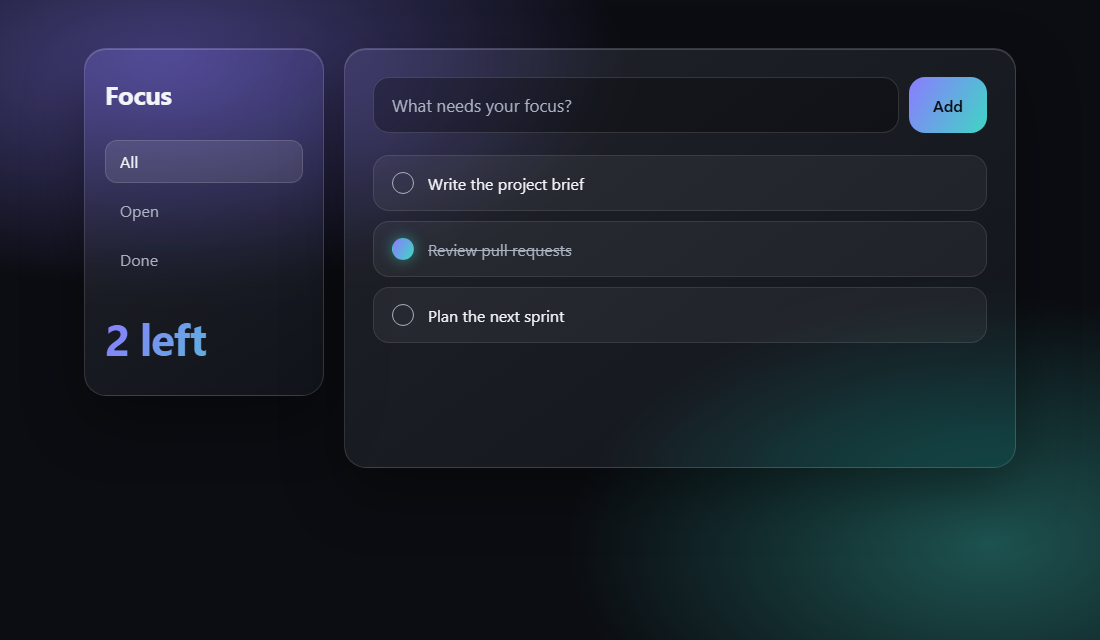
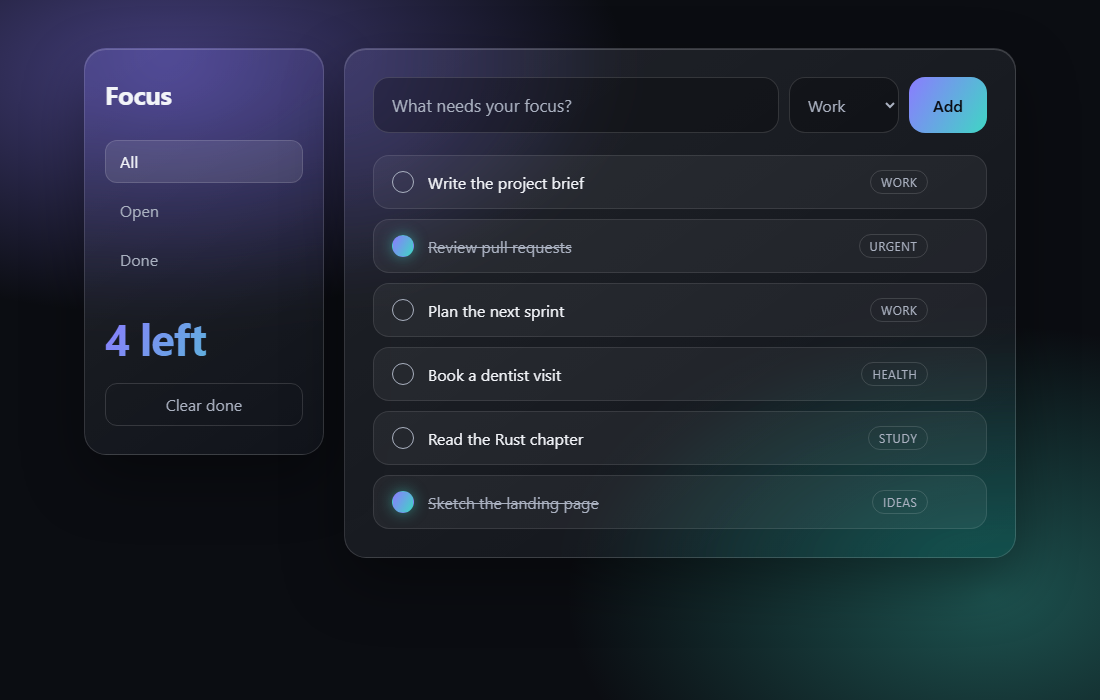
docs: exemplo passa a todo list completa com tags coloridas no antes e glass sobrio no depois

diff --git a/examples/task-board/before/style.css b/examples/task-board/before/style.css
@@ -1,17 +1,33 @@
 * { box-sizing: border-box; }
-body { font-family: Inter, system-ui, sans-serif; min-height: 100vh; margin: 0; padding: 48px 16px; display: flex; flex-direction: column; align-items: center; background: linear-gradient(135deg, #667eea 0%, #764ba2 100%); color: #1f2937; }
-h1 { font-size: 32px; font-weight: 700; margin: 0 0 20px; color: #fff; text-align: center; }
-form, .filters, ul, #count { width: 100%; max-width: 440px; }
-form { display: flex; gap: 8px; padding: 20px 20px 0; background: #fff; border-radius: 16px 16px 0 0; box-shadow: 0 20px 40px rgba(0, 0, 0, 0.15); }
-input { flex: 1; padding: 12px 16px; border: 2px solid #e5e7eb; border-radius: 12px; font: inherit; font-size: 14px; }
-button { padding: 12px 20px; border: 0; border-radius: 12px; background: linear-gradient(135deg, #667eea, #764ba2); color: #fff; font: inherit; font-size: 14px; font-weight: 600; cursor: pointer; }
-.filters { display: flex; gap: 8px; padding: 16px 20px; background: #fff; box-shadow: 0 20px 40px rgba(0, 0, 0, 0.15); }
+html { min-height: 100%; background: linear-gradient(135deg, #667eea 0%, #764ba2 100%); }
+body { max-width: 520px; margin: 32px auto; padding: 28px 24px; background: #fff; border-radius: 20px; box-shadow: 0 20px 40px rgba(0, 0, 0, 0.2); font-family: Inter, system-ui, sans-serif; color: #1f2937; }
+h1 { margin: 0 0 20px; font-size: 32px; text-align: center; background: linear-gradient(135deg, #667eea, #764ba2); -webkit-background-clip: text; background-clip: text; color: transparent; }
+form { display: flex; gap: 8px; margin-bottom: 16px; }
+input, select { padding: 10px 14px; border: 2px solid #e5e7eb; border-radius: 12px; font: inherit; font-size: 14px; }
+input { flex: 1; min-width: 0; }
+button { padding: 10px 18px; border: 0; border-radius: 12px; background: linear-gradient(135deg, #667eea, #764ba2); color: #fff; font: inherit; font-size: 14px; font-weight: 600; cursor: pointer; }
+.filters { display: flex; gap: 8px; margin-bottom: 16px; }
 .filters button { padding: 6px 16px; border-radius: 999px; background: #f3f4f6; color: #6b7280; font-weight: 500; }
 .filters button.active { background: #667eea; color: #fff; }
-ul { list-style: none; margin: 0; padding: 0 20px; background: #fff; box-shadow: 0 20px 40px rgba(0, 0, 0, 0.15); }
-.task { display: flex; align-items: center; gap: 12px; padding: 14px 16px; margin-bottom: 8px; background: #f9fafb; border-radius: 12px; cursor: pointer; }
-.task span { font-size: 15px; }
-.task.done span { text-decoration: line-through; color: #9ca3af; }
+ul { list-style: none; margin: 0; padding: 0; }
+.task { display: flex; align-items: center; gap: 12px; padding: 12px 14px; margin-bottom: 8px; background: #f9fafb; border-left: 4px solid #667eea; border-radius: 12px; cursor: pointer; }
+.text { flex: 1; font-size: 15px; }
+.task.done .text { text-decoration: line-through; color: #9ca3af; }
 .check { width: 22px; height: 22px; padding: 0; border: 2px solid #d1d5db; border-radius: 50%; background: #fff; }
-.task.done .check { border-color: #667eea; background: #667eea; }
-#count { margin: 0; padding: 8px 20px 20px; background: #fff; border-radius: 0 0 16px 16px; box-shadow: 0 20px 40px rgba(0, 0, 0, 0.15); color: #9ca3af; font-size: 13px; text-align: center; }
+.task.done .check { border-color: #10b981; background: #10b981; }
+.tag { padding: 3px 10px; border-radius: 999px; color: #fff; font-size: 12px; font-weight: 600; text-transform: uppercase; }
+.tag-work { background: #3b82f6; }
+.tag-personal { background: #10b981; }
+.tag-urgent { background: #ef4444; }
+.tag-ideas { background: #f59e0b; }
+.tag-health { background: #ec4899; }
+.tag-study { background: #8b5cf6; }
+.task:has(.tag-work) { border-left-color: #3b82f6; }
+.task:has(.tag-personal) { border-left-color: #10b981; }
+.task:has(.tag-urgent) { border-left-color: #ef4444; }
+.task:has(.tag-ideas) { border-left-color: #f59e0b; }
+.task:has(.tag-health) { border-left-color: #ec4899; }
+.task:has(.tag-study) { border-left-color: #8b5cf6; }
+.del { padding: 0 6px; background: none; color: #ef4444; font-size: 20px; line-height: 1; }
+#count { margin: 16px 0 12px; color: #9ca3af; font-size: 13px; text-align: center; }
+#clear { display: block; margin: 0 auto; padding: 8px 18px; background: #fee2e2; color: #ef4444; }

diff --git a/examples/task-board/after/style.css b/examples/task-board/after/style.css
@@ -27,18 +27,28 @@ button { font: inherit; color: inherit; cursor: pointer; }
 .filters button { text-align: left; padding: 10px 14px; border-radius: 12px; border: 1px solid transparent; background: transparent; color: var(--ink-muted); }
 .filters button:hover { background: rgba(255, 255, 255, 0.06); }
 .filters button.active { color: var(--ink); background: rgba(255, 255, 255, 0.1); border-color: var(--edge); }
-#count { margin: 28px 0 0; font-size: 44px; font-weight: 650; letter-spacing: -0.03em; background: linear-gradient(120deg, var(--violet), var(--teal)); -webkit-background-clip: text; background-clip: text; color: transparent; }
+#count { margin: 28px 0 16px; font-size: 44px; font-weight: 650; letter-spacing: -0.03em; background: linear-gradient(120deg, var(--violet), var(--teal)); -webkit-background-clip: text; background-clip: text; color: transparent; }
+#clear { width: 100%; padding: 10px; border-radius: 12px; border: 1px solid var(--edge); background: transparent; color: var(--ink-muted); }
+#clear:hover { background: rgba(255, 255, 255, 0.06); color: var(--ink); }
 form { display: flex; gap: 10px; margin-bottom: 22px; }
-input { flex: 1; padding: 16px 18px; font: inherit; font-size: 17px; color: var(--ink); background: rgba(0, 0, 0, 0.28); border: 1px solid var(--edge); border-radius: 16px; outline: none; }
+input, select { font: inherit; color: var(--ink); background: rgba(0, 0, 0, 0.28); border: 1px solid var(--edge); border-radius: 16px; outline: none; }
+input { flex: 1; min-width: 0; padding: 16px 18px; font-size: 17px; }
+select { padding: 0 14px; color: var(--ink-muted); text-transform: capitalize; }
+select option { background: #151821; color: var(--ink); }
 input::placeholder { color: var(--ink-muted); }
-input:focus-visible { border-color: var(--violet); box-shadow: 0 0 0 3px rgba(139, 124, 255, 0.3); }
+input:focus-visible, select:focus-visible { border-color: var(--violet); box-shadow: 0 0 0 3px rgba(139, 124, 255, 0.3); }
 form button { padding: 0 24px; border-radius: 16px; border: 0; font-weight: 600; color: #0b0d12; background: linear-gradient(120deg, var(--violet), var(--teal)); }
 form button:hover { filter: brightness(1.1); }
 ul { list-style: none; margin: 0; padding: 0; display: grid; gap: 10px; }
-.task { display: flex; align-items: center; gap: 14px; padding: 16px 18px; border-radius: 16px; background: rgba(255, 255, 255, 0.05); border: 1px solid rgba(255, 255, 255, 0.1); cursor: pointer; transition: background 0.15s, transform 0.15s; }
+.task { display: flex; align-items: center; gap: 14px; padding: 14px 18px; border-radius: 16px; background: rgba(255, 255, 255, 0.05); border: 1px solid rgba(255, 255, 255, 0.1); cursor: pointer; transition: background 0.15s, transform 0.15s; }
 .task:hover { background: rgba(255, 255, 255, 0.09); transform: translateY(-1px); }
-.task.done span { text-decoration: line-through; color: var(--ink-muted); }
+.text { flex: 1; }
+.task.done .text { text-decoration: line-through; color: var(--ink-muted); }
 .check { width: 22px; height: 22px; padding: 0; border-radius: 50%; border: 1.5px solid var(--ink-muted); background: transparent; flex: none; }
 .task.done .check { border-color: transparent; background: linear-gradient(120deg, var(--violet), var(--teal)); box-shadow: 0 0 14px rgba(63, 214, 196, 0.5); }
+.tag { padding: 3px 10px; border-radius: 999px; border: 1px solid var(--edge); color: var(--ink-muted); font-size: 12px; letter-spacing: 0.04em; text-transform: uppercase; }
+.del { padding: 0 6px; border: 0; background: none; color: var(--ink-muted); font-size: 20px; line-height: 1; opacity: 0; transition: opacity 0.15s; }
+.task:hover .del, .del:focus-visible { opacity: 1; }
+.del:hover { color: var(--ink); }
 @media (max-width: 720px) { .shell { grid-template-columns: 1fr; } }
-@media (prefers-reduced-motion: reduce) { .task { transition: none; } }
+@media (prefers-reduced-motion: reduce) { .task, .del { transition: none; } }

diff --git a/examples/task-board/after/app.js b/examples/task-board/after/app.js
@@ -1,16 +1,22 @@
+const TAGS = ['work', 'personal', 'urgent', 'ideas', 'health', 'study'];
 const tasks = [
-	{ text: 'Write the project brief', done: false },
-	{ text: 'Review pull requests', done: true },
-	{ text: 'Plan the next sprint', done: false }
+	{ text: 'Write the project brief', tag: 'work', done: false },
+	{ text: 'Review pull requests', tag: 'urgent', done: true },
+	{ text: 'Plan the next sprint', tag: 'work', done: false },
+	{ text: 'Book a dentist visit', tag: 'health', done: false },
+	{ text: 'Read the Rust chapter', tag: 'study', done: false },
+	{ text: 'Sketch the landing page', tag: 'ideas', done: true }
 ];
 let filter = 'all';
 const $ = (selector) => document.querySelector(selector);
 const escape = (text) => text.replace(/[&<>"]/g, (c) => ({ '&': '&amp;', '<': '&lt;', '>': '&gt;', '"': '&quot;' })[c]);
 
+$('#tag').innerHTML = TAGS.map((t) => `<option>${t}</option>`).join('');
+
 function render() {
 	const shown = tasks.filter((t) => filter === 'all' || (filter === 'done') === t.done);
 	$('#list').innerHTML = shown
-		.map((t) => `<li class="task${t.done ? ' done' : ''}" data-i="${tasks.indexOf(t)}"><button class="check" aria-label="Toggle"></button><span>${escape(t.text)}</span></li>`)
+		.map((t) => `<li class="task${t.done ? ' done' : ''}" data-i="${tasks.indexOf(t)}"><button class="check" aria-label="Toggle"></button><span class="text">${escape(t.text)}</span><span class="tag tag-${t.tag}">${t.tag}</span><button class="del" aria-label="Delete">&times;</button></li>`)
 		.join('');
 	$('#count').textContent = `${tasks.filter((t) => !t.done).length} left`;
 	document.querySelectorAll('[data-filter]').forEach((b) => b.classList.toggle('active', b.dataset.filter === filter));
@@ -19,13 +25,20 @@ function render() {
 $('#add').addEventListener('submit', (event) => {
 	event.preventDefault();
 	const text = $('#new').value.trim();
-	if (text) tasks.push({ text, done: false });
+	if (text) tasks.push({ text, tag: $('#tag').value, done: false });
 	$('#new').value = '';
 	render();
 });
 $('#list').addEventListener('click', (event) => {
 	const item = event.target.closest('.task');
-	if (item) tasks[item.dataset.i].done = !tasks[item.dataset.i].done;
+	if (!item) return;
+	const i = item.dataset.i;
+	if (event.target.closest('.del')) tasks.splice(i, 1);
+	else tasks[i].done = !tasks[i].done;
+	render();
+});
+$('#clear').addEventListener('click', () => {
+	for (let i = tasks.length - 1; i >= 0; i--) if (tasks[i].done) tasks.splice(i, 1);
 	render();
 });
 document.querySelectorAll('[data-filter]').forEach((b) => b.addEventListener('click', () => { filter = b.dataset.filter; render(); }));

diff --git a/examples/task-board/before/app.js b/examples/task-board/before/app.js
@@ -1,16 +1,22 @@
+const TAGS = ['work', 'personal', 'urgent', 'ideas', 'health', 'study'];
 const tasks = [
-	{ text: 'Write the project brief', done: false },
-	{ text: 'Review pull requests', done: true },
-	{ text: 'Plan the next sprint', done: false }
+	{ text: 'Write the project brief', tag: 'work', done: false },
+	{ text: 'Review pull requests', tag: 'urgent', done: true },
+	{ text: 'Plan the next sprint', tag: 'work', done: false },
+	{ text: 'Book a dentist visit', tag: 'health', done: false },
+	{ text: 'Read the Rust chapter', tag: 'study', done: false },
+	{ text: 'Sketch the landing page', tag: 'ideas', done: true }
 ];
 let filter = 'all';
 const $ = (selector) => document.querySelector(selector);
 const escape = (text) => text.replace(/[&<>"]/g, (c) => ({ '&': '&amp;', '<': '&lt;', '>': '&gt;', '"': '&quot;' })[c]);
 
+$('#tag').innerHTML = TAGS.map((t) => `<option>${t}</option>`).join('');
+
 function render() {
 	const shown = tasks.filter((t) => filter === 'all' || (filter === 'done') === t.done);
 	$('#list').innerHTML = shown
-		.map((t) => `<li class="task${t.done ? ' done' : ''}" data-i="${tasks.indexOf(t)}"><button class="check" aria-label="Toggle"></button><span>${escape(t.text)}</span></li>`)
+		.map((t) => `<li class="task${t.done ? ' done' : ''}" data-i="${tasks.indexOf(t)}"><button class="check" aria-label="Toggle"></button><span class="text">${escape(t.text)}</span><span class="tag tag-${t.tag}">${t.tag}</span><button class="del" aria-label="Delete">&times;</button></li>`)
 		.join('');
 	$('#count').textContent = `${tasks.filter((t) => !t.done).length} left`;
 	document.querySelectorAll('[data-filter]').forEach((b) => b.classList.toggle('active', b.dataset.filter === filter));
@@ -19,13 +25,20 @@ function render() {
 $('#add').addEventListener('submit', (event) => {
 	event.preventDefault();
 	const text = $('#new').value.trim();
-	if (text) tasks.push({ text, done: false });
+	if (text) tasks.push({ text, tag: $('#tag').value, done: false });
 	$('#new').value = '';
 	render();
 });
 $('#list').addEventListener('click', (event) => {
 	const item = event.target.closest('.task');
-	if (item) tasks[item.dataset.i].done = !tasks[item.dataset.i].done;
+	if (!item) return;
+	const i = item.dataset.i;
+	if (event.target.closest('.del')) tasks.splice(i, 1);
+	else tasks[i].done = !tasks[i].done;
+	render();
+});
+$('#clear').addEventListener('click', () => {
+	for (let i = tasks.length - 1; i >= 0; i--) if (tasks[i].done) tasks.splice(i, 1);
 	render();
 });
 document.querySelectorAll('[data-filter]').forEach((b) => b.addEventListener('click', () => { filter = b.dataset.filter; render(); }));

diff --git a/examples/task-board/after/index.html b/examples/task-board/after/index.html
@@ -16,10 +16,12 @@
 				<button data-filter="done">Done</button>
 			</nav>
 			<p id="count"></p>
+			<button id="clear" type="button">Clear done</button>
 		</aside>
 		<main class="stage">
 			<form id="add">
 				<input id="new" placeholder="What needs your focus?" autocomplete="off">
+				<select id="tag" aria-label="Tag"></select>
 				<button>Add</button>
 			</form>
 			<ul id="list"></ul>

diff --git a/examples/task-board/before/index.html b/examples/task-board/before/index.html
@@ -10,6 +10,7 @@
 	<h1>Focus</h1>
 	<form id="add">
 		<input id="new" placeholder="New task" autocomplete="off">
+		<select id="tag" aria-label="Tag"></select>
 		<button>Add</button>
 	</form>
 	<div class="filters">
@@ -19,6 +20,7 @@
 	</div>
 	<ul id="list"></ul>
 	<p id="count"></p>
+	<button id="clear" type="button">Clear done</button>
 	<script src="app.js"></script>
 </body>
 </html>

diff --git a/README.md b/README.md
@@ -18,13 +18,13 @@ Give it screenshots you like, or the name of a style. It works out what the app 
 
 ## Example
 
-A small task app, before and after. Same markup roles, same script, same behaviour. Before is the generic look an AI produces by default: purple gradient, white card, rounded everything. After is what the skill makes: the layout goes from one centred column to a rail and a stage, and the look to glass.
+A to-do app with tags, filters and delete, before and after. Same script and behaviour. Before is the default AI look: purple gradient, white card, a rainbow of tags. After is the skill's output: a rail and a stage in glass, with one accent instead of six tag colours.
 
 | Before (default AI look) | After (`/reskin`) |
 |---|---|
 | ![Before](examples/task-board/before-default.png) | ![After](examples/task-board/after.png) |
 
-The files are in [`examples/task-board`](examples/task-board), with the [`DESIGN.md`](examples/task-board/DESIGN.md) that describes the result. This is an illustration written for this repository to show the target, not the recorded output of a run.
+Files in [`examples/task-board`](examples/task-board), with the resulting [`DESIGN.md`](examples/task-board/DESIGN.md). Written by hand to show the target, not the recorded output of a run.
 
 ## How it works
 

diff --git a/examples/task-board/DESIGN.md b/examples/task-board/DESIGN.md
@@ -53,7 +53,9 @@ Two columns: 240px rail, flexible stage, 20px gap, 980px maximum width. Below 72
 ## Components
 - Filters live in the rail as a vertical list. The active one gets a lighter fill and an `edge` border.
 - Done marks are a filled gradient circle with a teal glow. Open marks are an empty 1.5px circle.
-- Rows lift 1px on hover.
+- Rows lift 1px on hover. Delete shows on hover.
+- Tags are neutral outlined chips. The app's six tag colours are dropped on purpose: colour is reserved for the accent, and the tag name carries the meaning.
+- The tag select matches the input. "Clear done" is a ghost button under the counter, so it never competes with "Add".
 
 ## Product Map
 - **Single screen, three states** (all, open, done). Main action: add a task. Focal point: the input. Secondary: the list. Status: the "left" counter, which becomes the large gradient number in the rail.
